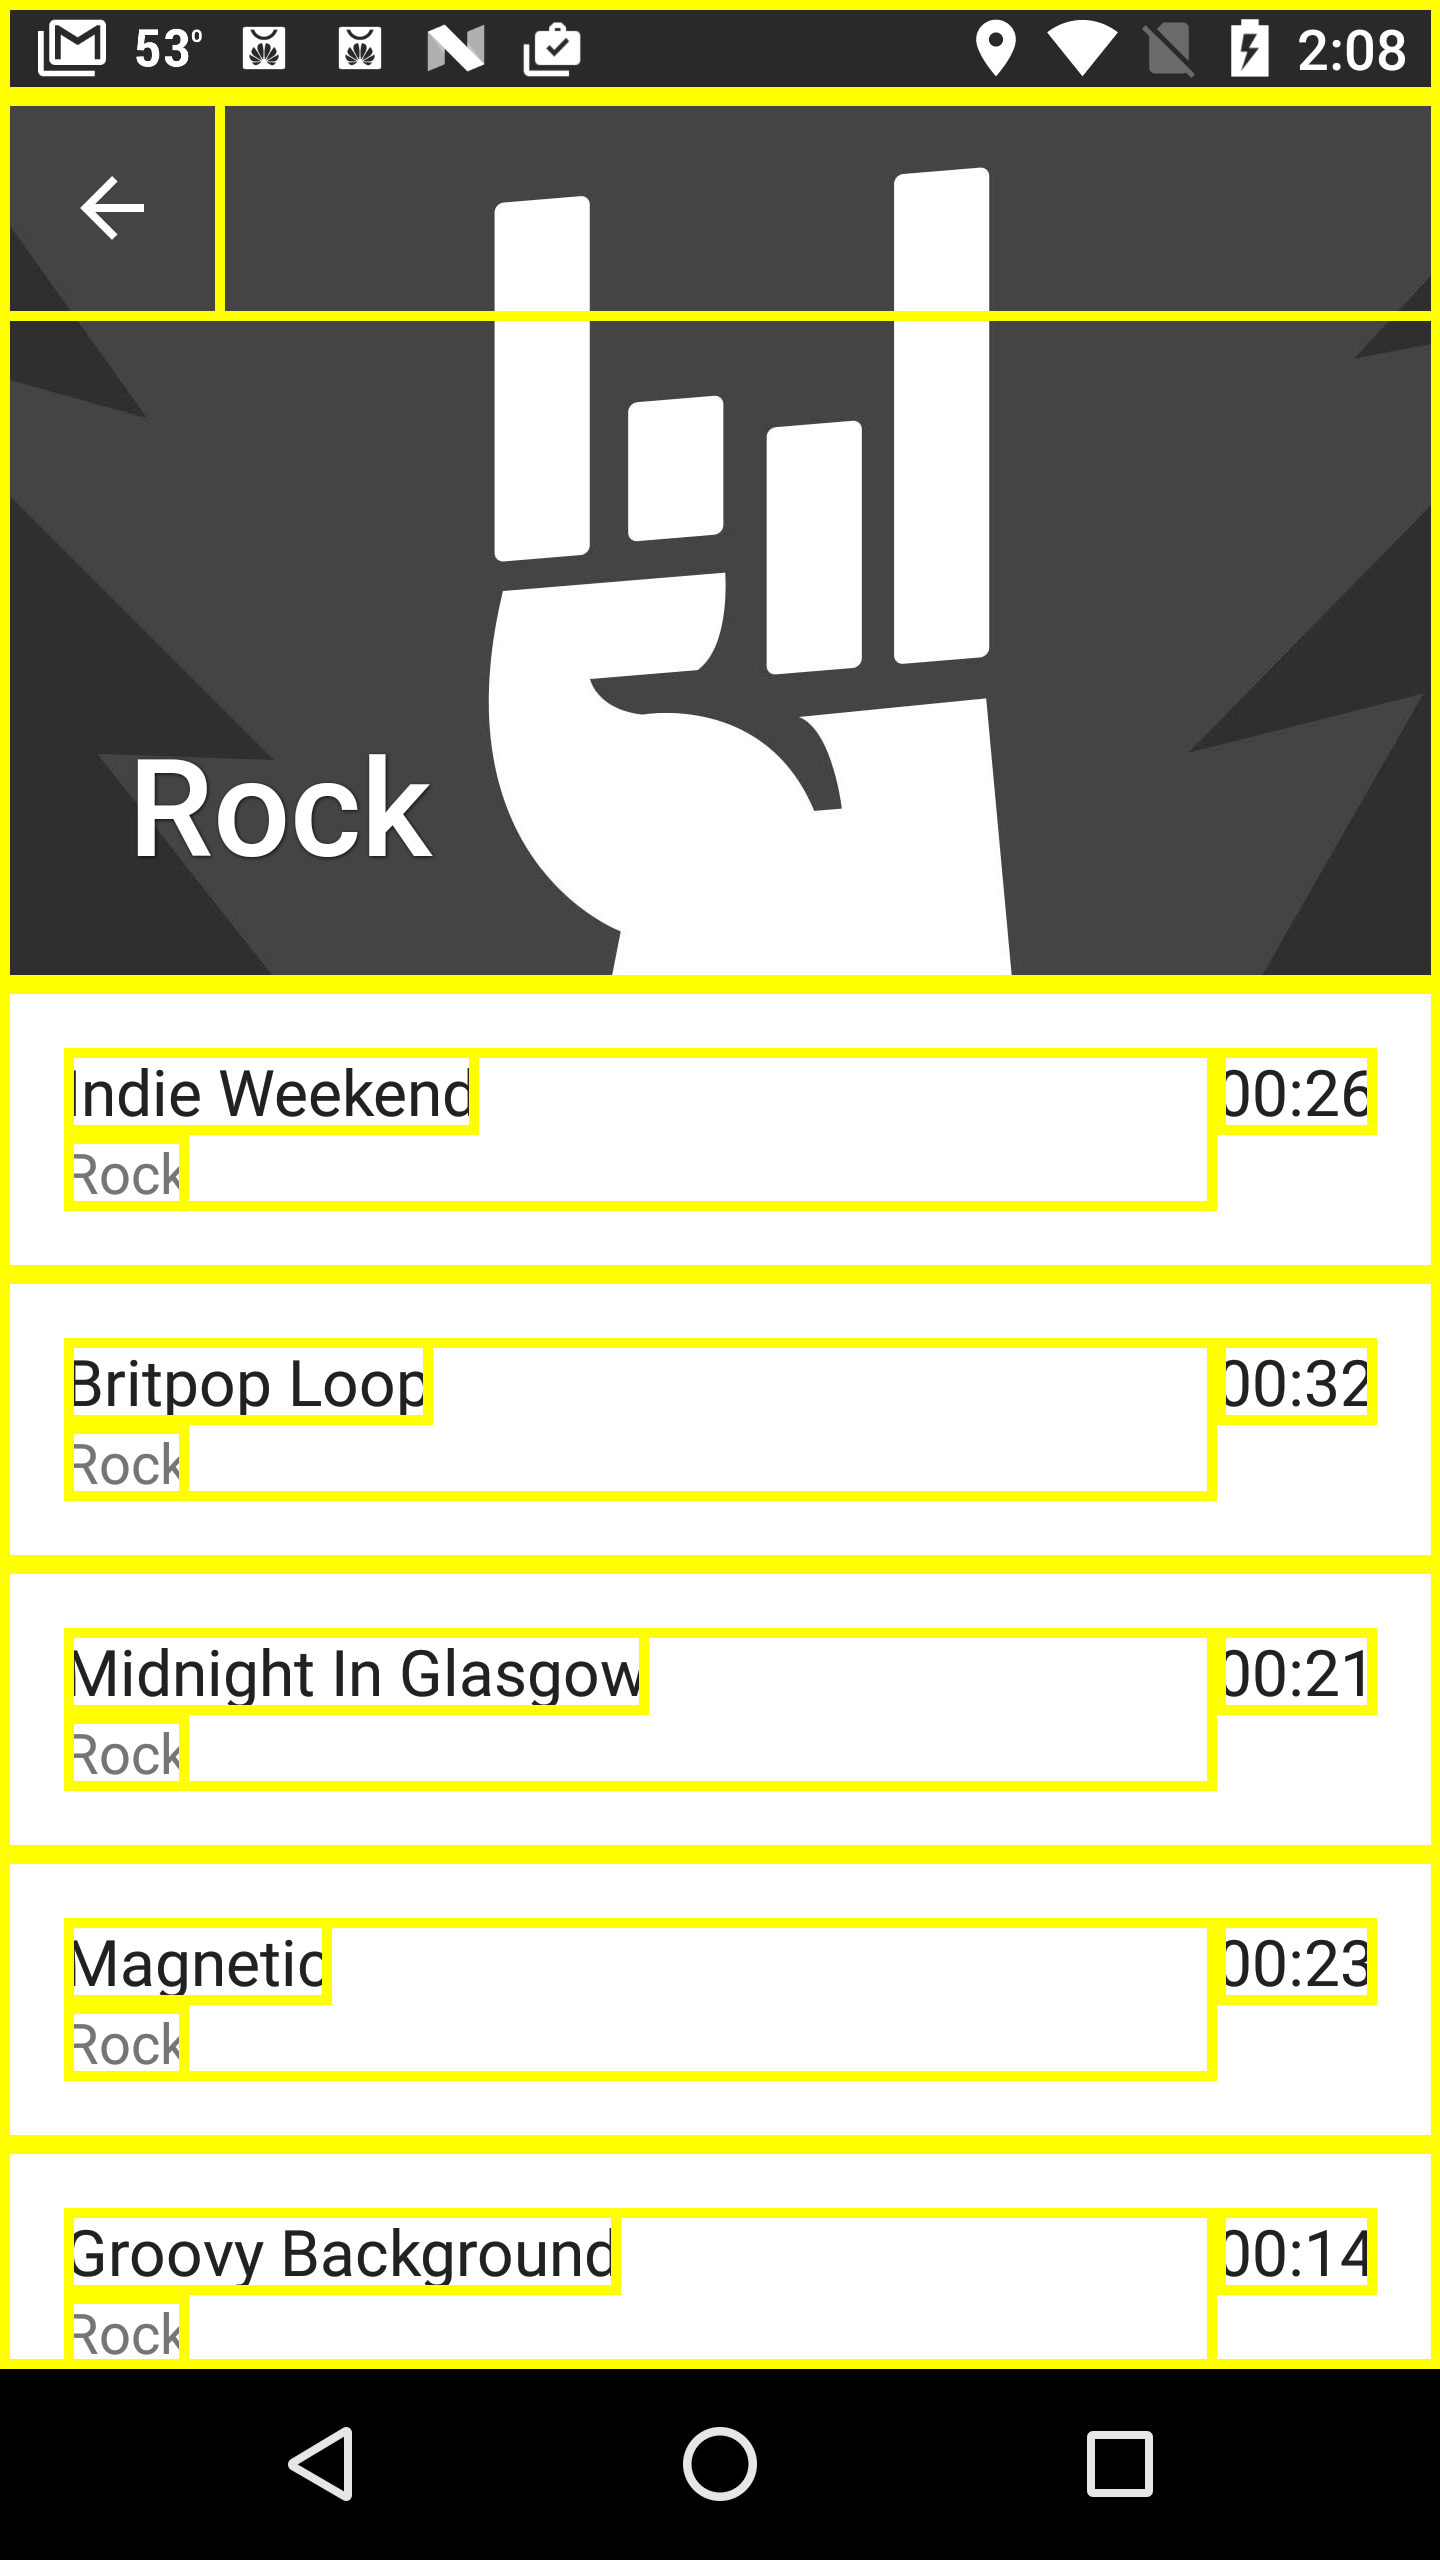
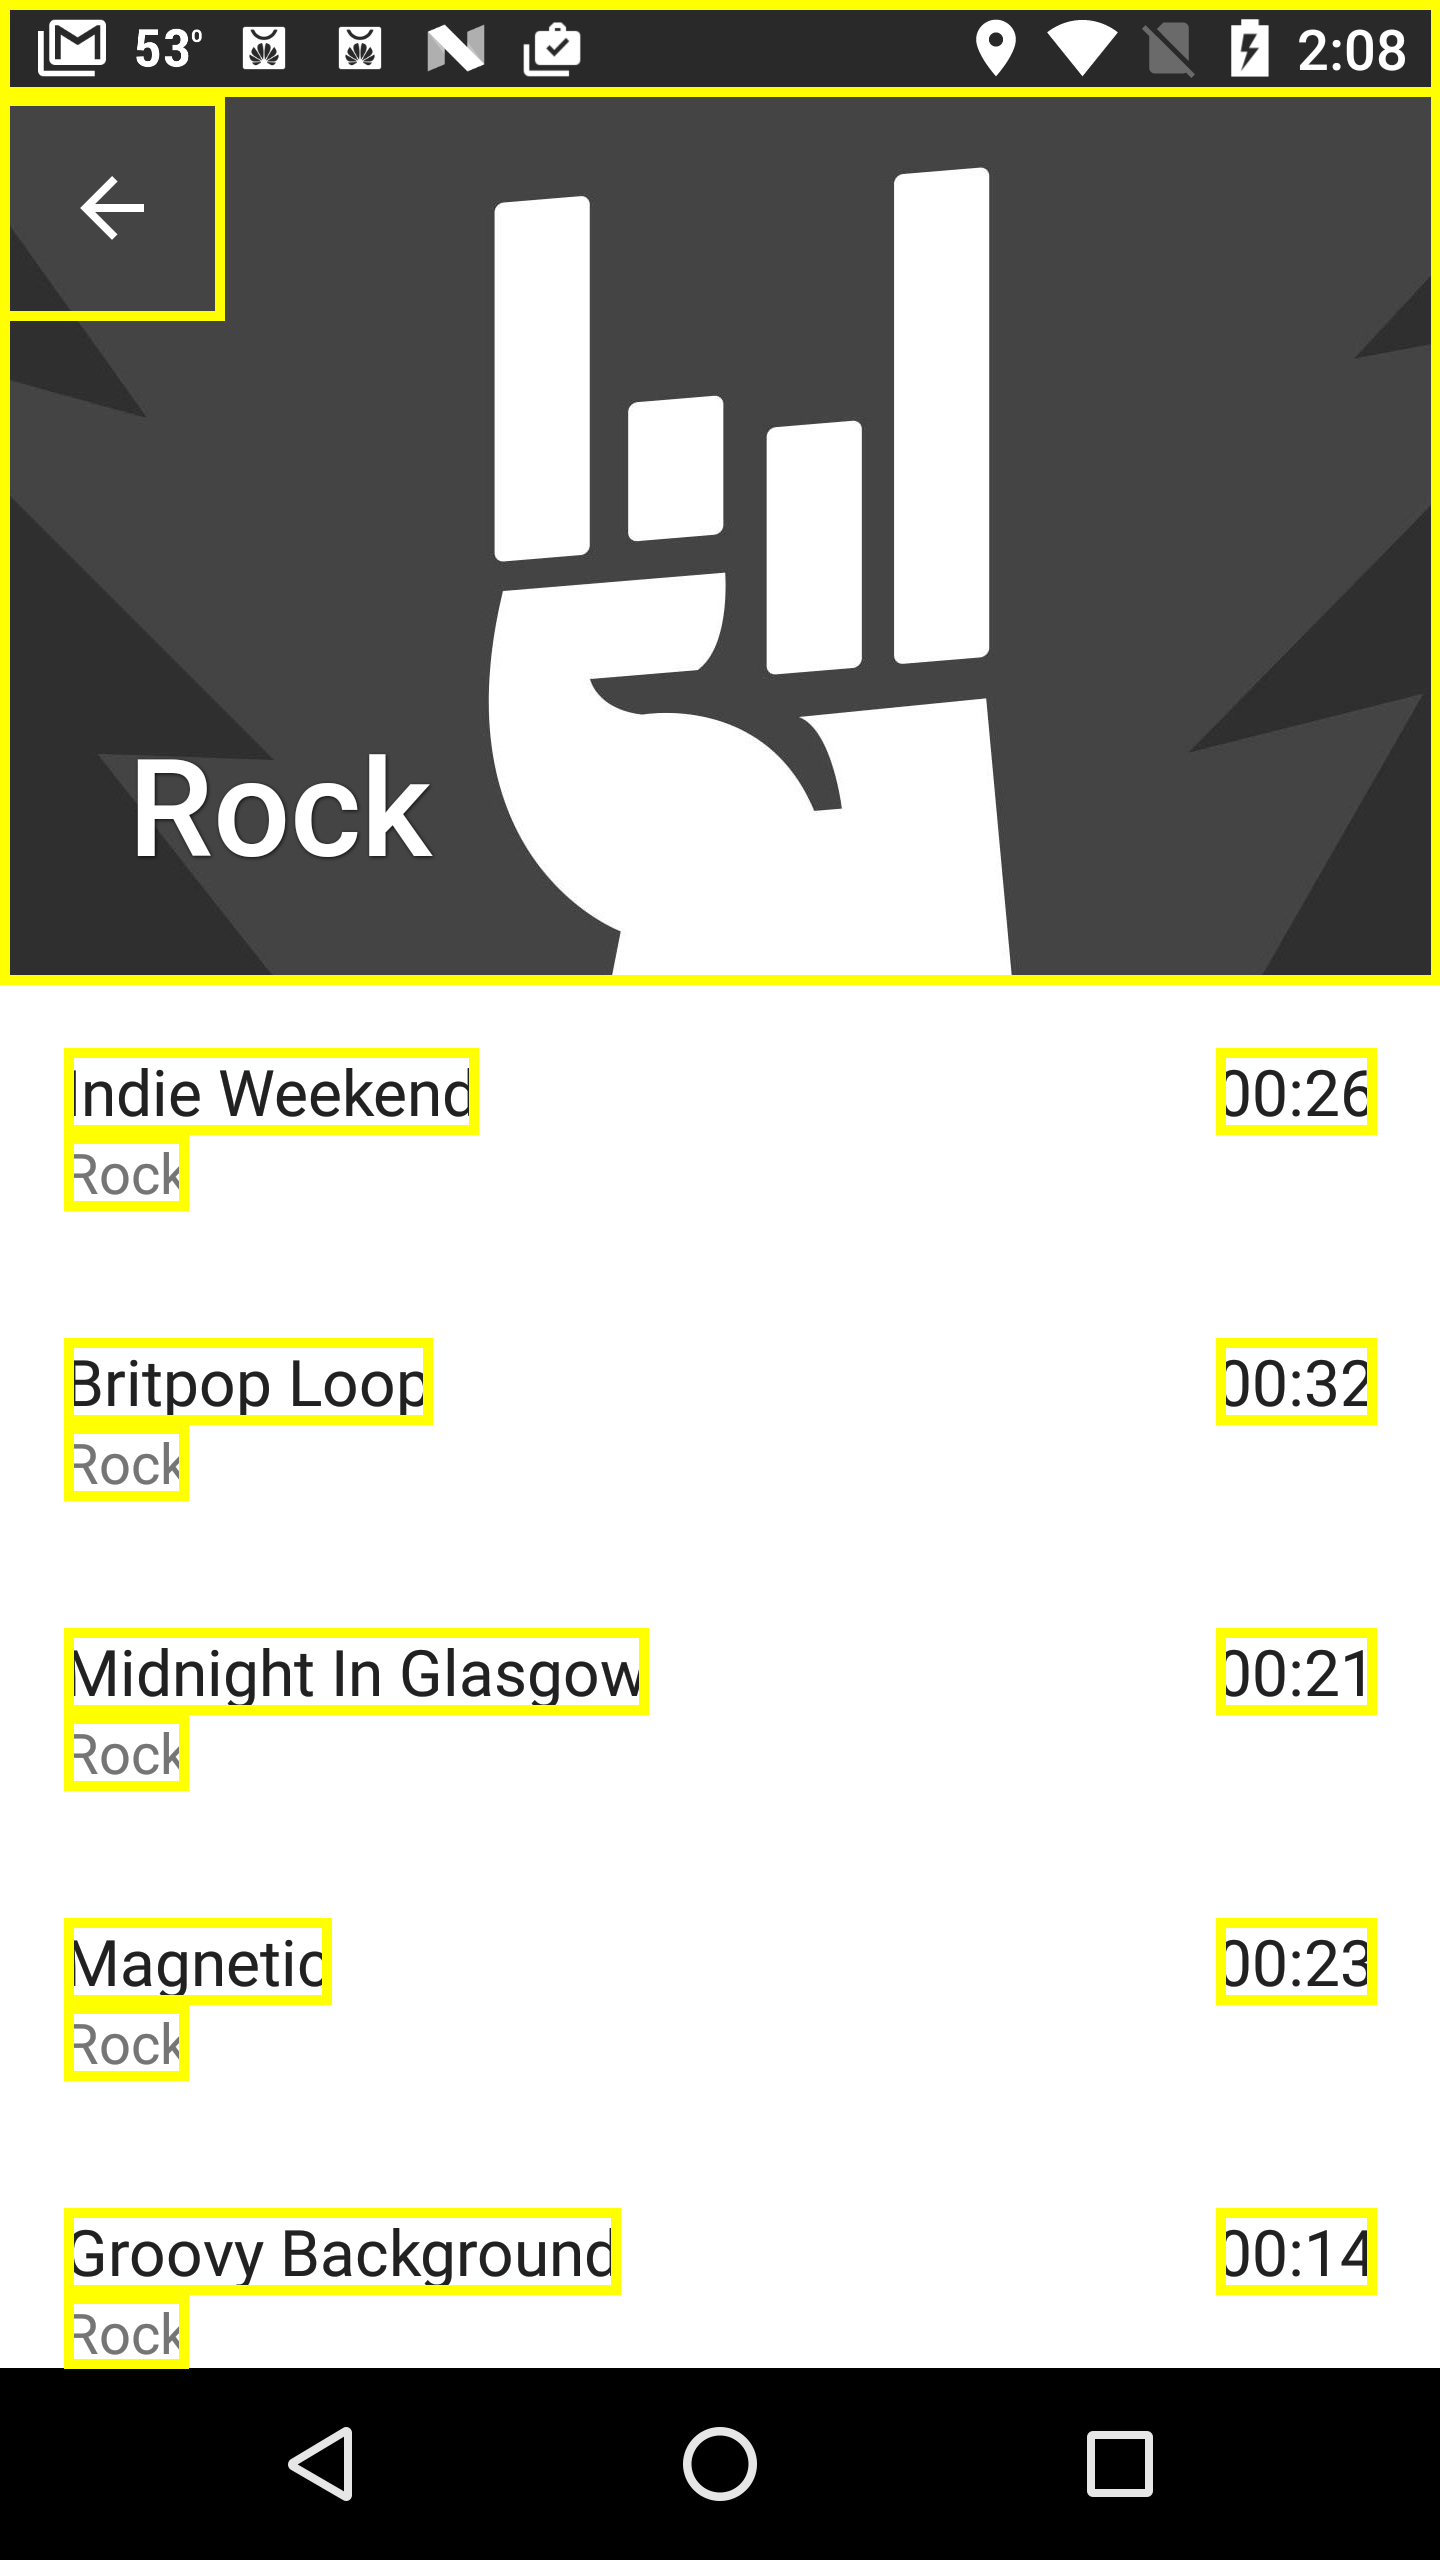
Updated assignment to only draw around leaf nodes

Changed region(s): [[0.0, 0.375, 1.0, 0.9375], [0.1562, 0.0938, 0.9688, 0.125], [0.1562, 0.0312, 0.9688, 0.0625]]

diff --git a/assignment.py b/assignment.py
@@ -19,13 +19,13 @@ try:
     boundList = [] # List to store all boundary coordinates
     
     for line in text:   # Isolate node bounds, add to list
-        copy = line.split(' ')
+        copy = line.split('<')
         for i in copy:
-            if i.startswith('bounds='):
+            if "/>" in i and "bounds=" in i:
                 boundList.append(i)
 
     for j in boundList: # For every coordinate, format for parsing
-        j = j[7:]
+        j = j[j.find("bounds=")+7:]
         coord = j.split('][')
         
         coord[0] = coord[0][2:]
